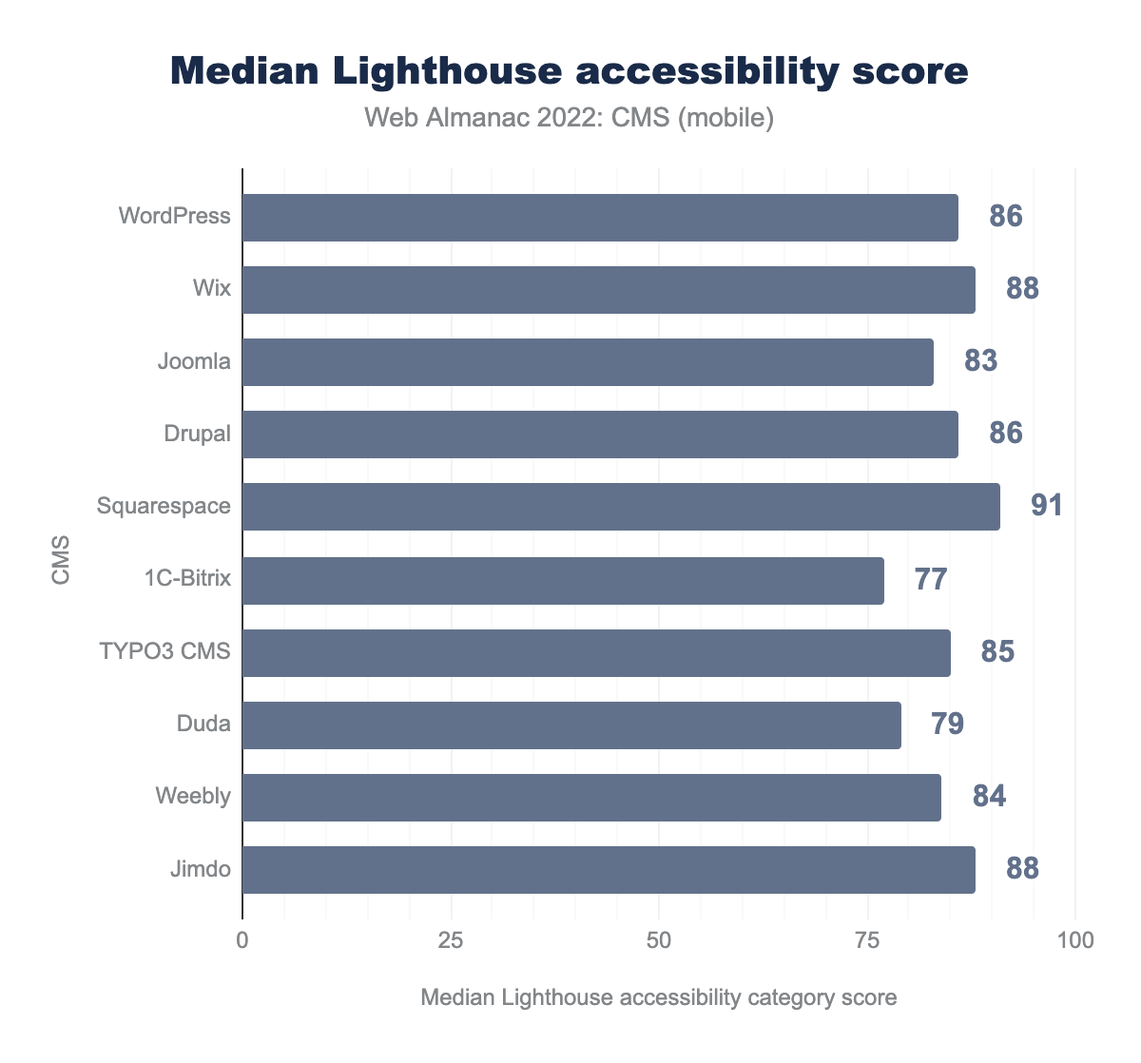
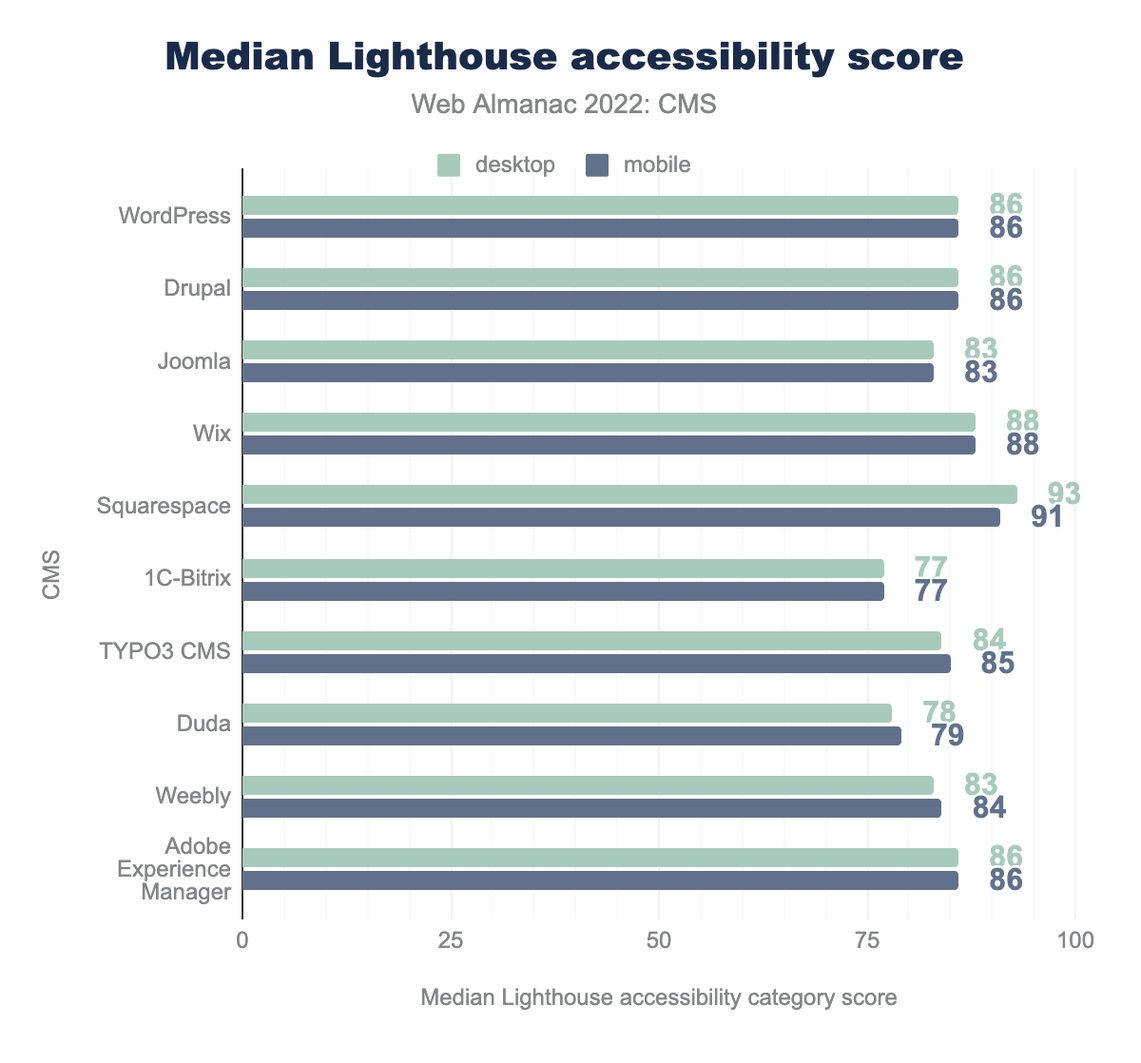
Add desktop Lighthouse scores

Changed region(s): [[0.0925, 0.0304, 0.9558, 0.8515], [0.0308, 0.4866, 0.0617, 0.5778]]

diff --git a/src/content/en/2022/cms.md b/src/content/en/2022/cms.md
@@ -49,14 +49,14 @@ Our analysis throughout this work includes desktop and mobile websites. The vast
 {{ figure_markup(
   image="cms-adoption.png",
   caption="CMS adoption.",
-  description="Column chart showing the adoption of CMSs over the past 3 years. 45% of desktop websites and 47% of mobile websites are built using a CMS in 20212 For 2021, both desktop and mobile are approximately 45%, while in 2020 they are both 42%.",
+  description="Column chart showing the adoption of CMSs over the past 3 years. 45% of desktop websites and 47% of mobile websites are built using a CMS in 2022 For 2021, desktop is 45% and mobile are approximately 46%, while in 2020 they are both 42%.",
   chart_url="https://docs.google.com/spreadsheets/d/e/2PACX-1vQpmp9GvO62PKJmEC_yxnHVx4zuqKwYh68tquM5yZCCrOlZETqbLhu3iuSarRq2n4bW7dRbUoSB8NO2/pubchart?oid=386824637&format=interactive",
   sheets_gid="643278583",
   sql_file="cms_adoption.sql"
   )
 }}
 
-As of June 2022, 45% of websites within the desktop dataset are powered by a CMS, indicating a slight drop of [from 2021](../2021/cms#cms-adoption). The mobile dataset shows an increase from 46% [in 2021](../2021/cms#cms-adoption) to 47% here in 2022. In our estimate, the drop is more likely attributed to minor variances in attribution than an indicator of a downward trend in CMS usage.
+As of June 2022, 45% of websites within the desktop dataset are powered by a CMS, indicating a similar usage [to 2021](../2021/cms#cms-adoption). The mobile dataset shows an increase from 46% [in 2021](../2021/cms#cms-adoption) to 47% here in 2022. Looking coser at the desktop raw figures we actually see a slight drop in both absolute and percentage terms but the drop is more likely attributed to minor variances in attribution than an indicator of a downward trend in CMS usage. It should be noted that the amount of desktop sites tracked by HTTP Archive (and the source CrUX dataset) has falled considerably from 6.4 million sites to 5.4 million sites, while the number of mobile sites has grown by about 400,000 sites from 7.5 million to 7.9 million sites relfecting a continued growth in mobile usage at the expense of desktop.
 
 It is instructive to compare these numbers with another commonly used dataset, such as <a hreflang="en" href="https://w3techs.com/technologies/history_overview/content_management/all/q">W3Techs</a>, which reported that as of June 2021, 64.6% of websites are created using a CMS, up from 59.2% in June 2020, which is an increase of over 9%.
 
@@ -73,7 +73,7 @@ CMSs are used around the world, with some variance by country.
 {{ figure_markup(
   image="cms-adoption-geo.png",
   caption="CMS adoption by geography.",
-  description="Bar chart showcasing the adoption of CMSs by geography, in the 10 countries with the largest number of websites. In the US, 39% of mobile websites within the dataset are built using a CMS, and 43% of desktop websites.",
+  description="Bar chart showcasing the adoption of CMSs by geography, in the 10 countries with the largest number of websites. In the US, 39% of mobile websites within the dataset are built using a CMS, and 43% of desktop websites. In Japan it is 38% and 32% respectively, in UK 39% and 39%, in Germany 36% and 39%, in India 35% and 35%, in Brazil 34% and 31%, in France 38% and 35%, in Russian Federation 40% and 35%, in Italy 42% and 40%, and in Spain 42% on desktop and 41% on mobile.",
   chart_url="https://docs.google.com/spreadsheets/d/e/2PACX-1vQpmp9GvO62PKJmEC_yxnHVx4zuqKwYh68tquM5yZCCrOlZETqbLhu3iuSarRq2n4bW7dRbUoSB8NO2/pubchart?oid=1831148760&format=interactive",
   sheets_gid="353349768",
   sql_file="cms_adoption_by_geo.sql",
@@ -84,7 +84,7 @@ CMSs are used around the world, with some variance by country.
 
 Among the geographies with the highest number of websites, CMS adoption percentage is the highest in Italy and Spain where 40%–41% of mobile sites visited by users are built with a CMS. Brazil and Japan have the lowest adoption with only 31% and 32% respectively.
 
-Of particular interest is the decrease across the board from the 2021 dataset. Comparing year over year for mobile results, all countries except India appear to show a drop, ranging from a 4% decrease for the UK and Germany to an 8% decrease for the US and Italy.  Given the consistency of the decreases across geographies, it feels more plausible to be a variance in attribution than a wholesale drop in CMS adoption. We recommend evaluating this further in next year's analysis.
+Of particular interest is the decrease across the board from the [2021 dataset](../2021/cms#cms-adoption-by-geography) when looking by country. Comparing year over year for mobile results, all countries except India appear to show a drop, ranging from a 4% decrease for the UK and Germany to an 8% decrease for the US and Italy.  Given the consistency of the decreases across geographies, it feels more plausible to be a variance in attribution than a wholesale drop in CMS adoption. We recommend evaluating this further in next year's analysis.
 
 
 ### CMS adoption by rank
@@ -94,7 +94,7 @@ We examined CMS adoption by the estimated rank of the sites included within the 
 {{ figure_markup(
   image="cms-adoption-rank.png",
   caption="CMS adoption by rank.",
-  description="Column chart showing the adoption of CMSs split by the rank of the websites. Higher ranking sites are less likely to have a CMS attributed, while a larger percentage of lower ranking sites have a clearly attributed CMS.",
+  description="Column chart showing the adoption of CMSs split by the rank of the websites. For the top 1,000 sites it is 7% on both desktop and mobile. For the top 10,000 it is 15% and 16% respectively, for the top 100,000 it is 21% and 21%, forn the top 1,000,000 it is 29% and 29%, and for all sites it is 39% and 43%. Higher ranking sites are less likely to have a CMS attributed, while a larger percentage of lower ranking sites have a clearly attributed CMS.",
   chart_url="https://docs.google.com/spreadsheets/d/e/2PACX-1vQpmp9GvO62PKJmEC_yxnHVx4zuqKwYh68tquM5yZCCrOlZETqbLhu3iuSarRq2n4bW7dRbUoSB8NO2/pubchart?oid=898515378&format=interactive",
   sheets_gid="1599740178",
   sql_file="cms_adoption_by_rank.sql"
@@ -105,18 +105,18 @@ According to the dataset, CMSs are used by less than 7% of the top 1,000 website
 
 Another explanation is that for higher ranking sites which tend to have more resources allocated to development, the choice of a CMS is more likely to be obfuscated. It is improbable that more than 90% of the top 1,000 would forgo a CMS entirely and more likely that they just don't show up in our dataset.
 
-A potentially correlated trend is the adoption of "headless" CMSs and the move towards separating content — and the CMS that powers it — from the frontend experience offered to end-users.
+A potentially correlated trend is the adoption of "headless" CMSs and the move towards separating content—and the CMS that powers it—from the frontend experience offered to end-users.
 
 While our confidence in the overall dataset remains high, we're interested in investigating the adoption by rank dataset further in future editions of this report to see if more can be done to detect CMS usage and improve the overall accuracy of our results.
 
 ## Most popular CMSs
 
-Among all websites that use an identifiable CMS, WordPress sites account for the majority of the relative market share — with over 35% adoption on mobile — followed by Wix (2%), Joomla (1.8%), Drupal (1.6%), and Squarespace (1%).
+Among all websites that use an identifiable CMS, WordPress sites account for the majority of the relative market share—with over 35% adoption on mobile—followed by Wix (2%), Joomla (1.8%), Drupal (1.6%), and Squarespace (1.0%).
 
 {{ figure_markup(
   image="top-5-cms-yoy.png",
   caption="Top five CMSs year over year.",
-  description="Column chart depicting the percent of websites built on each of the top five CMSs, in the past 3 years. WordPress, Wix and Squarespace are growing in adoption year-over-year, while Drupal and Joomla are dropping.",
+  description="Column chart depicting the percent of websites built on each of the top five CMSs, in the past 3 years. WordPress is 31.4% in 2020, 33.6% in 2021, and 35.0% in 2022. Joomla is 2.1%, 1.9%, and 1.8% respectively, Drupal is 2.0%, 1.8%, and 1.6%, Wix is 1.2%, 1.6%, and 2.0%, and Squarespace 0.9% for 2020, 1.0%, for 2021, and 1.0% for 2022. WordPress, Wix and Squarespace are growing in adoption year-over-year, while Drupal and Joomla are dropping.",
   chart_url="https://docs.google.com/spreadsheets/d/e/2PACX-1vQpmp9GvO62PKJmEC_yxnHVx4zuqKwYh68tquM5yZCCrOlZETqbLhu3iuSarRq2n4bW7dRbUoSB8NO2/pubchart?oid=714516300&format=interactive",
   sheets_gid="1396671791",
   sql_file="top_cms.sql"
@@ -128,7 +128,7 @@ Comparing year over year, Drupal and Joomla continue to decline in market share,
 {{ figure_markup(
   image="wordpress-page-builders.png",
   caption="WordPress page builder adoption.",
-  description="Column chart depicting the top five page builders for WordPress.",
+  description="Column chart depicting the top five page builders for WordPress. Elementor is 40% of desktop WordPress sites, and 43% of mobile. wpBakery is 34%, and 33% respectively, Divi is 16%, and 15%, SiteOrigin Page Builder is 3% and 3%, and Oxygen is 1% on both.",
   chart_url="https://docs.google.com/spreadsheets/d/e/2PACX-1vQpmp9GvO62PKJmEC_yxnHVx4zuqKwYh68tquM5yZCCrOlZETqbLhu3iuSarRq2n4bW7dRbUoSB8NO2/pubchart?oid=184382453&format=interactive",
   sheets_gid="2087504589",
   sql_file="wordpress_page_builders.sql"
@@ -139,7 +139,7 @@ Within WordPress, users often make use of a "page builder" that sits as a layer 
 
 As we see it today, page builders exert significant influence on the performance of a site, and historically have been anecdotal indicators of poor performance. As one example, our dataset indicates that it's not uncommon for websites to have multiple page builders installed, adding a significant increase to the resources loaded by a site.
 
-Now that we're tracking page builder data, we'll have the opportunity in future editions to evaluate year over year changes in page builder adoption and look for connections in those changes to the overall performance of WordPress as a CMS.
+Now that we're tracking page builder data, we'll have the opportunity in future editions to evaluate year over year changes in page builder adoption and look for correlations in those changes to the overall performance of WordPress as a CMS.
 
 ## CMS user experience
 
@@ -151,18 +151,18 @@ The <a hreflang="en" href="https://httparchive.org/reports/cwv-tech">Core Web Vi
 
 In this section we focus on data from June 2022 to provide a consistent timeframe for data presented across the Web Almanac. We examine three important factors provided by the [Chrome User Experience Report](../2021/methodology#chrome-ux-report) which can shed light on our understanding of how users are experiencing CMS-powered web pages in the wild:
 
-* Largest Contentful Paint (LCP)
-* First Input Delay (FID)
-* Cumulative Layout Shift (CLS)
+* <a hreflang="en" href="https://web.dev/lcp/">Largest Contentful Paint</a> (LCP)
+* <a hreflang="en" href="https://web.dev/fid/">First Input Delay</a> (FID)
+* <a hreflang="en" href="https://web.dev/cls/">Cumulative Layout Shift</a> (CLS)
 
-These metrics aim to cover the core elements which are indicative of a great web user experience. The [Performance](../2021/performance) chapter covers these in more detail, but here we are interested in looking at these metrics specifically in terms of CMSs.
+These metrics aim to cover the core elements which are indicative of a great web user experience. The [Performance](./performance) chapter covers these in more detail, but here we are interested in looking at these metrics specifically in terms of CMSs.
 
-Initially, let's review the 10 CMS platforms with the highest number of origins and examine the percentage of sites on each platform that have a _passing_ grade, meaning that the 75th percentile in each of the above metrics must be in the "good" (green) range for each site.
+Initially, let's review the 10 CMS platforms with the highest number of origins and examine the percentage of sites on each platform that have a "passing" grade, meaning that the 75th percentile in each of the above metrics must be in the "good" (green) range for each site.
 
 {{ figure_markup(
   image="top-cwv-performance.png",
   caption="Core web vitals performance by CMS.",
-  description="Bar chart showcasing the percentage of sites with good Core Web Vitals, for each of the 10 most adopted CMSs.",
+  description="Bar chart showcasing the percentage of sites with good Core Web Vitals, for each of the 10 most adopted CMSs. For WordPress 30% of sites pass on desktop and mobile, for Wix it is 41% on desktop and 39% on mobile, for Joomla it's 40% and 38% respectively, for Drupal it's 49% and 50%, for Squarespace it's 47% and 34%, for 1C-Bitrix it's 54% and 40%, for TYPO3 CMS it's 57% and 62%, for Duda it's 68% and 67%, for Weebly 36% and 43%, and for Jimdo it's 54% on desktop and 61% on mobile.",
   chart_url="https://docs.google.com/spreadsheets/d/e/2PACX-1vQpmp9GvO62PKJmEC_yxnHVx4zuqKwYh68tquM5yZCCrOlZETqbLhu3iuSarRq2n4bW7dRbUoSB8NO2/pubchart?oid=1221898999&format=interactive",
   sheets_gid="445373655",
   sql_file="core_web_vitals.sql",
@@ -182,7 +182,7 @@ We can also evaluate the progress of these CMS platforms compared to last year's
 {{ figure_markup(
   image="top-cwv-yoy.png",
   caption="Core web vitals mobile year-over-year.",
-  description="Bar chart showing the change in the percentage of passing Core Web Vitals mobile sites year-over-year, for each of the 10 most adopted CMSs, sorted by percentage.",
+  description="Bar chart showing the change in the percentage of passing Core Web Vitals mobile sites year-over-year, for each of the 10 most adopted CMSs, sorted by percentage. For WordPress it's 15% in 2020, 19% in 2021, and 30% in 2022, for Joomla it's 20%, 26%, and 38% respectively, for Drupal it's 28%, 34%, and 50%, for Wix it's 4%, 29%, and 39%, for Squarespace it's 5%, 17%, and 34%, for 1C-Bitrix it's 23%, 30%, and 40%, for TYPO3 CMS it's 41%, 46%, and 62%, for Duda it's 21%, 30%, and 67%, for Weebly it's 28%, 32%, and 43%, and for Adobe Experience Manager it's 11% for 2020, 14% for 2021, and 23% for 2022.",
   chart_url="https://docs.google.com/spreadsheets/d/e/2PACX-1vQpmp9GvO62PKJmEC_yxnHVx4zuqKwYh68tquM5yZCCrOlZETqbLhu3iuSarRq2n4bW7dRbUoSB8NO2/pubchart?oid=144597470&format=interactive",
   sheets_gid="1494726447",
   sql_file="core_web_vitals_yoy.sql",
@@ -204,7 +204,7 @@ A "good" LCP is regarded as being under 2.5 seconds.
 {{ figure_markup(
   image="lcp-cwv-performance.png",
   caption="Percentage of sites with good LCP by CMS.",
-  description="Bar chart showcasing the percentage of sites with good LCP, for each of the 10 most adopted CMSs.",
+  description="Bar chart showcasing the percentage of sites with good LCP, for each of the 10 most adopted CMSs. For WordPress it's 45% on desktop and 37% on mobile, for Wix it's 48% and 43% respectively, for Joomla it's 62% and 55%, for Drupal it's 73% and 60%, for Squarespace it's 66% and 40%, for 1C-Bitrix it's 72% and 50%, for TYPO3 CMS it's 82% and 79%, for Duda it's 85% and 79%, for Weebly it's 59% and 49%, and finally for Jimdo it's 69% on desktop and 74% on mobile.",
   chart_url="https://docs.google.com/spreadsheets/d/e/2PACX-1vQpmp9GvO62PKJmEC_yxnHVx4zuqKwYh68tquM5yZCCrOlZETqbLhu3iuSarRq2n4bW7dRbUoSB8NO2/pubchart?oid=1306847805&format=interactive",
   sheets_gid="445373655",
   sql_file="core_web_vitals.sql",
@@ -218,7 +218,7 @@ TYPO3 and Duda had the best LCP scores with 79% of origins having a "good" LCP e
 {{ figure_markup(
   image="lcp-cwv-yoy.png",
   caption="LCP mobile year-over-year.",
-  description="Bar chart showing the change in the percentage of good LCP mobile sites year-over-year, for each of the 10 most adopted CMSs, sorted by percentage.",
+  description="Bar chart showing the change in the percentage of good LCP mobile sites year-over-year, for each of the 10 most adopted CMSs, sorted by percentage. WordPress it's 28% in 2021 and 37% in 2022. For Joomla it's 42% and 55% respectively, for Drupal it's 50% and 60%, for Wix it's 33% and 43%, for Squarespace it's 30% and 40%, for 1C-Bitrix it's 45% and 50%, for TYPO3 CMS it's 69% and 79%, for Duda it's 52% and 79%, for Weebly it's 42% and 49%, and finally for Adobe Experience Manager it's 28% for 2021 and 34% for 2022.",
   chart_url="https://docs.google.com/spreadsheets/d/e/2PACX-1vQpmp9GvO62PKJmEC_yxnHVx4zuqKwYh68tquM5yZCCrOlZETqbLhu3iuSarRq2n4bW7dRbUoSB8NO2/pubchart?oid=964886559&format=interactive",
   sheets_gid="1494726447",
   sql_file="core_web_vitals_yoy.sql",
@@ -242,7 +242,7 @@ In 2021's report, the fact that almost all platforms manage to deliver a good FI
 {{ figure_markup(
   image="fid-cwv-yoy.png",
   caption="FID mobile year-over-year.",
-  description="Bar chart showing the change in the percentage of good FID mobile sites year-over-year, for each of the 10 most adopted CMSs, sorted by percentage.",
+  description="Bar chart showing the change in the percentage of good FID mobile sites year-over-year, for each of the 10 most adopted CMSs, sorted by percentage. WordPress it's 96% in both 2021 and 2022, for Joomla it's 85% for 2021 and 89% on 2022, for Drupal it's 90% and 95% respecitely, for Wix it's 94% and 92%, for Squarespace it's 98% and 98%, for 1C-Bitrix it's 83% and 94%, for TYPO3 CMS it's 93% and 95%, for Duda it's 92% and 95%, for Weebly it's 96% and 90%, and finally for Adobe Experience Manager it's 94% for 2021 and 95% for 2022.",
   chart_url="https://docs.google.com/spreadsheets/d/e/2PACX-1vQpmp9GvO62PKJmEC_yxnHVx4zuqKwYh68tquM5yZCCrOlZETqbLhu3iuSarRq2n4bW7dRbUoSB8NO2/pubchart?oid=242914394&format=interactive",
   sheets_gid="1494726447",
   sql_file="core_web_vitals_yoy.sql",
@@ -257,16 +257,14 @@ Yearly data shows that most CMSs managed to improve their FID over the past year
 
 Cumulative Layout Shift (CLS) measures the visual stability of content on a web page, measuring the largest burst of layout shift scores for every unexpected layout shift that occurs during the entire lifespan of a page that was not caused by direct user interactions.
 
-A layout shift occurs any time a visible element changes its position from one rendered frame to the next.
-
-The <a hreflang="en" href="https://web.dev/evolving-cls/">CLS metric evolved in 2021</a>, mainly introducing the concept of Session Windows, to be fairer to long-lived pages and Single Page Apps (SPAs).
+A layout shift occurs any time a visible element changes its position from one rendered frame to the next. The <a hreflang="en" href="https://web.dev/evolving-cls/">CLS metric evolved in 2021</a>, mainly introducing the concept of Session Windows, to be fairer to long-lived pages and Single Page Apps (SPAs).
 
 A score of 0.1 or below is measured as "good", over 0.25 as "poor", and anything in between as "needs improvement".
 
 {{ figure_markup(
   image="cls-cwv-yoy.png",
   caption="CLS mobile year-over-year.",
-  description="Bar chart showing the change in the percentage of good CLS mobile sites year-over-year, for each of the 10 most adopted CMSs, sorted by percentage.",
+  description="Bar chart showing the change in the percentage of good CLS mobile sites year-over-year, for each of the 10 most adopted CMSs, sorted by percentage. For WordPress it's 61% in 2021 versus 75% in 2022, for Joomla it's 62% and 72% respectively, for Drupal it's 69% and 81%, for Wix it's 81% and 89%, for Squarespace it's 54% and 76%, for 1C-Bitrix it's 66% and 76%, for TYPO3 CMS it's 69% and 81%, for Duda it's 55% and 86%, for Weebly it's 56% and 69%, and finally for Adobe Experience Manager it's 44% in 2021 and 59% in 2022.",
   chart_url="https://docs.google.com/spreadsheets/d/e/2PACX-1vQpmp9GvO62PKJmEC_yxnHVx4zuqKwYh68tquM5yZCCrOlZETqbLhu3iuSarRq2n4bW7dRbUoSB8NO2/pubchart?oid=2127088376&format=interactive",
   sheets_gid="1494726447",
   sql_file="core_web_vitals_yoy.sql",
@@ -281,7 +279,7 @@ Comparing yearly data, we can see that all CMSs made progress, WordPress, Square
 
 <a hreflang="en" href="https://developers.google.com/web/tools/lighthouse/">Lighthouse</a> is an open-source, automated tool for improving the quality of web pages. One key aspect of the tool is that it provides a set of audits to assess the status of a website in terms of performance, accessibility, SEO, best practices, and more. Lighthouse reports provide lab data, a way developers can get suggestions on how to improve website performance, but the Lighthouse score has no direct implications on the actual field data collected by <a hreflang="en" href="https://developers.google.com/web/tools/chrome-user-experience-report">CrUX</a>. You can read more on Lighthouse and the correlation between its <a hreflang="en" href="https://web.dev/lab-and-field-data-differences/">lab scores and field data</a>.
 
-HTTP Archive runs Lighthouse on its mobile web pages, which are also [throttled to emulate a slow 4G connection with a CPU slowdown](../2021/methodology#lighthouse).
+HTTP Archive runs Lighthouse on its mobile web pages, which are also [throttled to emulate a slow 4G connection with a CPU slowdown](./methodology#lighthouse), and also this year they started running on Desktop as well.
 
 We can analyze this data to provide another perspective on CMS performance, using the results of these synthetic tests, which also include metrics that are not tracked in CrUX.
 
@@ -290,9 +288,9 @@ We can analyze this data to provide another perspective on CMS performance, usin
 The Lighthouse <a hreflang="en" href="https://web.dev/performance-scoring/">performance score</a> is a weighted average of several metric scores.
 
 {{ figure_markup(
-  image="median-lighthouse.png",
-  caption="Median lighthouse mobile performance.",
-  description="Bar chart showcasing the median Lighthouse mobile performance score for each of the top 10 most adopted CMSs.",
+  image="median-lighthouse-performance.png",
+  caption="Median lighthouse performance scores.",
+  description="Bar chart showcasing the median Lighthouse performance scores for each of the top 10 most adopted CMSs. For WordPress it's 43 for desktop and 26 for mobile, for Drupal it's 45 and 29 respectively, for Joomla it's 44 and 27, for Wix it's 45 and 29, for Squarespace it's 40 and 19, for 1C-Bitrix it's 37 and 22, for TYPO3 CMS it's 46 and 35, for Duda it's 53 and 47, for Weebly it's 45 and 25, and finally for Adobe Experience Manager it's 36 and 17.",
   chart_url="https://docs.google.com/spreadsheets/d/e/2PACX-1vQpmp9GvO62PKJmEC_yxnHVx4zuqKwYh68tquM5yZCCrOlZETqbLhu3iuSarRq2n4bW7dRbUoSB8NO2/pubchart?oid=2275923&format=interactive",
   sheets_gid="921264211",
   sql_file="lighthouse_category_scores_per_cms.sql",
@@ -305,14 +303,16 @@ We can see that the median performance scores for most platforms on mobile are l
 
 WordPress, Joomla, Drupal, and 1C-Bitrix showed no change from last year's results. Wix dropped from 30% to 29% while the rest showed improvements.
 
+Desktop show—unsurprisingly given the faster CPUs and netwrok—better numbers with all CMSs seeing a 10-20 point improvements.
+
 #### SEO score
 
-Search Engine Optimization (or SEO) is the practice of improving a website to make it more easily found in search engines. This is covered more in-depth in our [SEO](../2022/seo) chapter, but one part involves ensuring the site is coded in such a way to serve as much information to search engine crawlers to make it as easy as possible for them to show a site appropriately in search engine results. Compared to a custom-created website, one might expect a CMS to provide good SEO capabilities, and the Lighthouse scores in this category are appropriately high.
+Search Engine Optimization (or SEO) is the practice of improving a website to make it more easily found in search engines. This is covered more in-depth in our [SEO](./seo) chapter, but one part involves ensuring the site is coded in such a way to serve as much information to search engine crawlers to make it as easy as possible for them to show a site appropriately in search engine results. Compared to a custom-created website, one might expect a CMS to provide good SEO capabilities, and the Lighthouse scores in this category are appropriately high.
 
 {{ figure_markup(
   image="median-lighthouse-seo.png",
-  caption="Median lighthouse mobile SEO scores.",
-  description="Bar chart showcasing the median Lighthouse mobile SEO score for each of the top 10 most adopted CMSs.",
+  caption="Median lighthouse SEO scores.",
+  description="Bar chart showcasing the median Lighthouse SEO scores for each of the top 10 most adopted CMSs. For WordPress it's 91 for desktop and 89 for mobile, for Drupal it's 83 and 83, for Joomla it's 83 and 86 respectively, for Wix it's 92 and 91, for Squarespace it's 92 and 92, for 1C-Bitrix it's 83 and 85, for TYPO3 CMS it's 83 and 86, for Duda it's 83 and 86, for Weebly it's 82 and 85, and finally for Adobe Experience Manager it's 83 and 85.",
   chart_url="https://docs.google.com/spreadsheets/d/e/2PACX-1vQpmp9GvO62PKJmEC_yxnHVx4zuqKwYh68tquM5yZCCrOlZETqbLhu3iuSarRq2n4bW7dRbUoSB8NO2/pubchart?oid=1901746915&format=interactive",
   sheets_gid="921264211",
   sql_file="lighthouse_category_scores_per_cms.sql",
@@ -321,20 +321,20 @@ Search Engine Optimization (or SEO) is the practice of improving a website to ma
   )
 }}
 
-The median SEO score in all of the top 10 platforms is over 83, a reduction from 84 in 2021.
+The median SEO scores in all of the top 10 platforms range from 83-92, a [slight reduction from 84-95 in 2021](../2021/cms#seo-score). Desktop scores are similar—slightly better in some cases, slightly worse in others.
 
 #### Accessibility score
 
-An accessible website is a site designed and developed so that people with disabilities can use them. Web accessibility also benefits people without disabilities, such as those on slow internet connections. Read more in our [Accessibility](../2022/accessibility) chapter.
+An accessible website is a site designed and developed so that people with disabilities can use them. Web accessibility also benefits people without disabilities, such as those on slow internet connections. Read more in our [Accessibility](./accessibility) chapter.
 
-Lighthouse provides a set of accessibility audits, and it returns a weighted average of all of them (see <a hreflang="en" href="https://web.dev/accessibility-scoring/">Scoring Details</a> for a full list of how each audit is weighted).
+Lighthouse provides a set of accessibility audits, and it returns a weighted average of all of them. See <a hreflang="en" href="https://web.dev/accessibility-scoring/">Scoring Details</a> for a full list of how each audit is weighted.
 
 Each accessibility audit is either a pass or a fail, but unlike other Lighthouse audits, a page doesn't get points for partially passing an accessibility audit. For example, if some elements have screen reader-friendly names, but others don't, that page gets a zero for the screen reader-friendly-names audit.
 
 {{ figure_markup(
   image="median-lighthouse-accessibility.png",
-  caption="Media Lighthouse mobile accessibility scores.",
-  description="Bar chart showcasing the median Lighthouse mobile SEO score for each of the top 10 most adopted CMSs.",
+  caption="Media Lighthouse accessibility scores.",
+  description="Bar chart showcasing the median Lighthouse SEO score for each of the top 10 most adopted CMSs. For WordPress it's 86 for desktop and 86 for mobile, for Drupal it's 86 and 86, for Joomla it's 83 and 83 respectively, for Wix it's 88 and 88, for Squarespace it's 93 and 91, for 1C-Bitrix it's 77 and 77, for TYPO3 CMS it's 84 and 85, for Duda it's 78 and 79, for Weebly it's 83 and 84, and finally for Adobe Experience Manager it's 86 and 86.",
   chart_url="https://docs.google.com/spreadsheets/d/e/2PACX-1vQpmp9GvO62PKJmEC_yxnHVx4zuqKwYh68tquM5yZCCrOlZETqbLhu3iuSarRq2n4bW7dRbUoSB8NO2/pubchart?oid=201542197&format=interactive",
   sheets_gid="921264211",
   sql_file="lighthouse_category_scores_per_cms.sql",
@@ -343,7 +343,7 @@ Each accessibility audit is either a pass or a fail, but unlike other Lighthouse
   )
 }}
 
-The median Lighthouse accessibility score for the top 10 CMSs ranges between 77 and 91. Squarespace had the highest score of 91, while 1C-Bitrix had the lowest accessibility scores.
+The median Lighthouse accessibility score for the top 10 CMSs ranges between 77 and 91. Squarespace had the highest score of 91, while 1C-Bitrix had the lowest accessibility scores. The desktop scores are almost idential to mobile, perhaps reflecting that the same sites are delivered to both.
 
 #### Best practices
 
@@ -351,8 +351,8 @@ The Lighthouse <a hreflang="en" href="https://web.dev/lighthouse-best-practices/
 
 {{ figure_markup(
   image="median-lighthouse-best-practices.png",
-  caption="Media Lighthouse mobile best practices scores.",
-  description="Bar chart showcasing the median Lighthouse mobile best practices score for each of the top 10 most adopted CMSs.",
+  caption="Media Lighthouse best practices scores.",
+  description="Bar chart showcasing the median Lighthouse best practices score for each of the top 10 most adopted CMSs. For WordPress it's 92 for desktop and 83 for mobile, for Drupal it's 83 and 83, for Joomla it's 83 and 75 respectively, for Wix it's 92 and 100, for Squarespace it's 92 and 92, for 1C-Bitrix it's 83 and 75, for TYPO3 CMS it's 92 and 83, for Duda it's 83 and 75, for Weebly it's 75 and 75, and finally for Adobe Experience Manager it's 83 and 75.",
   chart_url="https://docs.google.com/spreadsheets/d/e/2PACX-1vQpmp9GvO62PKJmEC_yxnHVx4zuqKwYh68tquM5yZCCrOlZETqbLhu3iuSarRq2n4bW7dRbUoSB8NO2/pubchart?oid=1066307789&format=interactive",
   sheets_gid="921264211",
   sql_file="lighthouse_category_scores_per_cms.sql",
@@ -361,7 +361,7 @@ The Lighthouse <a hreflang="en" href="https://web.dev/lighthouse-best-practices/
   )
 }}
 
-Wix had the highest median best practices score of 100, while many of the other top 10 platforms share the lowest score of 75.
+Wix had the highest median best practices score of 100, while many of the other top 10 platforms share the lowest score of 75. Again, desktop shows are very similar though larger in some cases perhaps reflecting incorrect image aspect-ratios on mobile pages, since most of the other audits in this category are platform based.
 
 ## Resource weights
 
